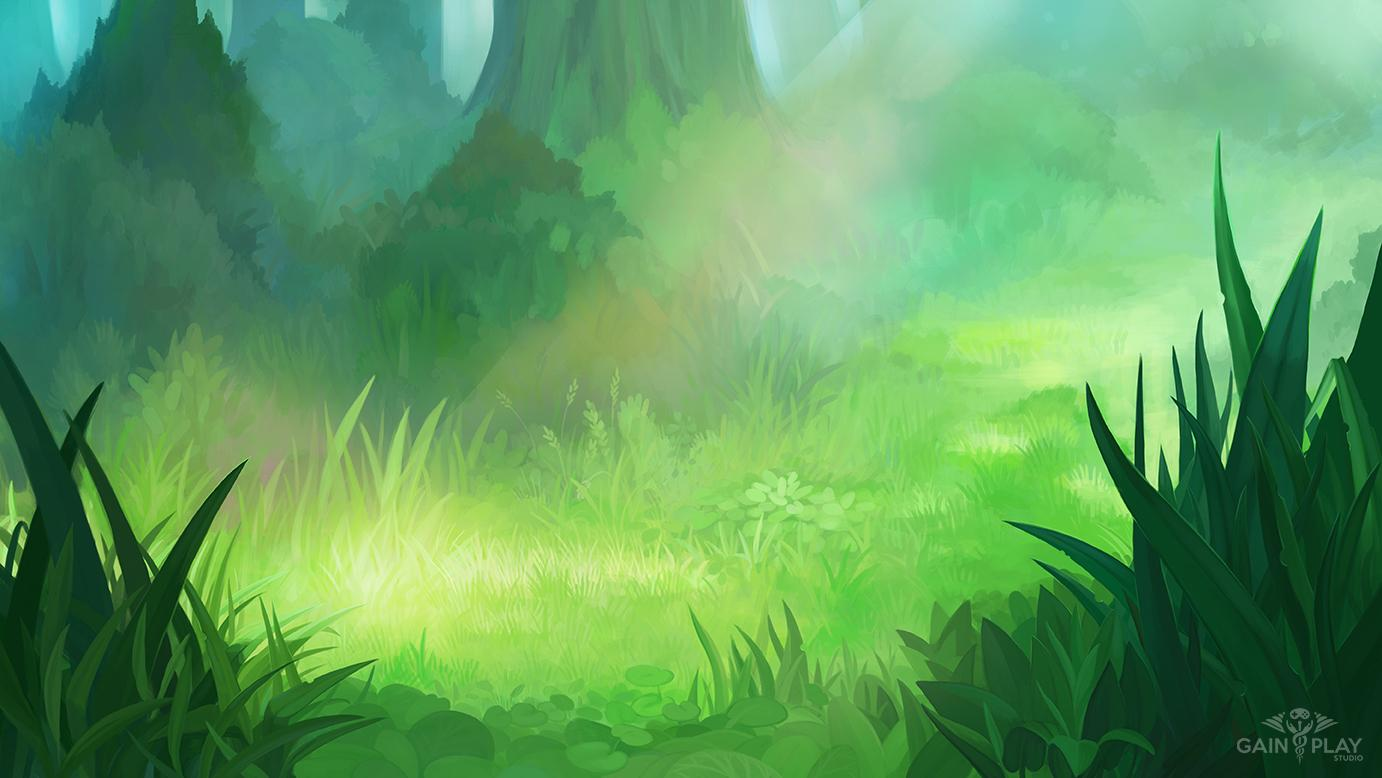
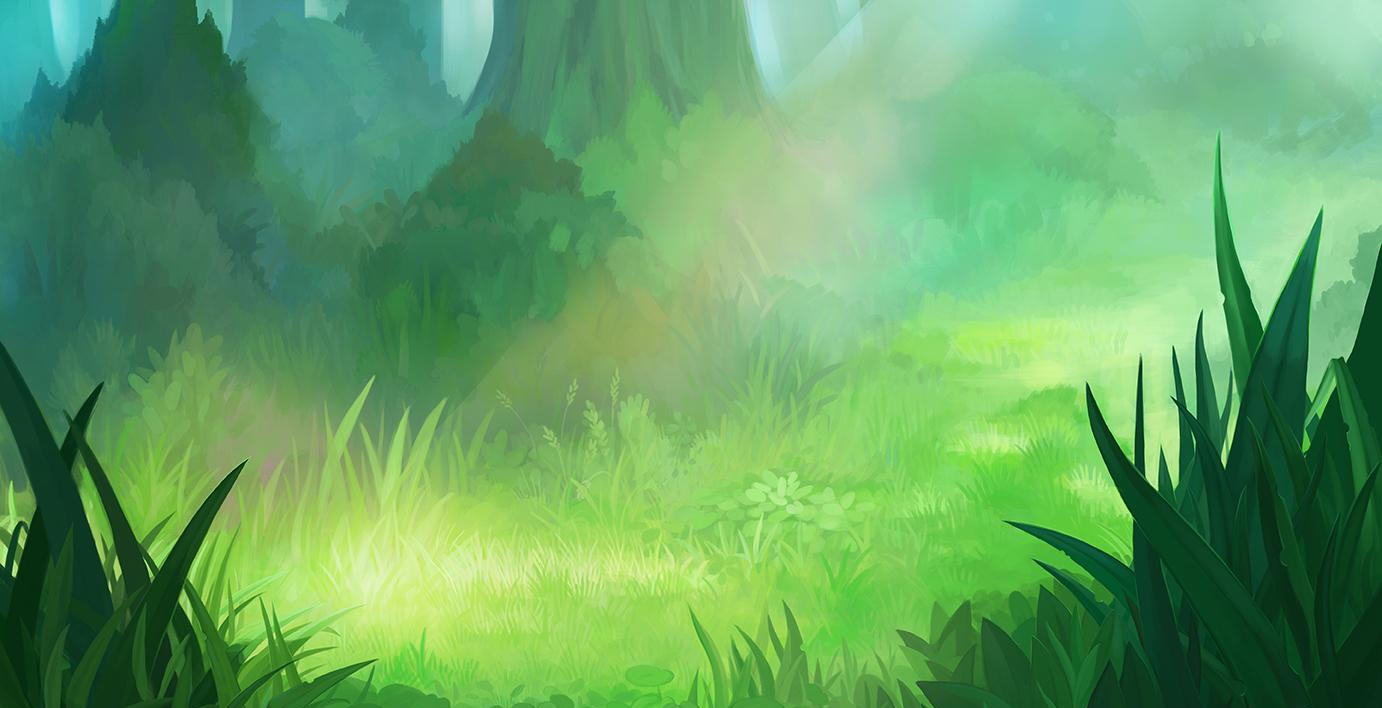
:fix: fix Background Resize

diff --git a/main.py b/main.py
@@ -3,6 +3,7 @@ import os
 import pygame as pg
 
 from src.game import WeedReaper
+from src.settings import global_screen
 
 os.environ['SDL_VIDEO_CENTERED'] = '1'  # Center the window
 window_width = 1270
@@ -10,6 +11,12 @@ window_height = 720
 screen = pg.display.set_mode((1270, 720), pg.RESIZABLE)  # Set the screen size
 
 bg = pg.image.load("src/assets/img/menu-background.png")  # Load the background image
+
+
+def resize():
+    """ Resize the background image to fit the screen """
+    global bg
+    bg = pg.transform.scale(bg, global_screen.get_size())
 
 
 def load_options(option_list):
@@ -33,6 +40,7 @@ def load_options(option_list):
 
 def main_menu():
     """ Main Menu Screen """
+    resize()
     pg.display.set_caption("Menu")
     menu_options = ['Start Game', 'Options', 'Quit']
 
@@ -60,6 +68,9 @@ def main_menu():
                         elif option == 'Quit':
                             pg.quit()
                             quit()
+
+            elif event.type == pg.VIDEORESIZE:
+                resize()
 
         pg.display.update()
 
